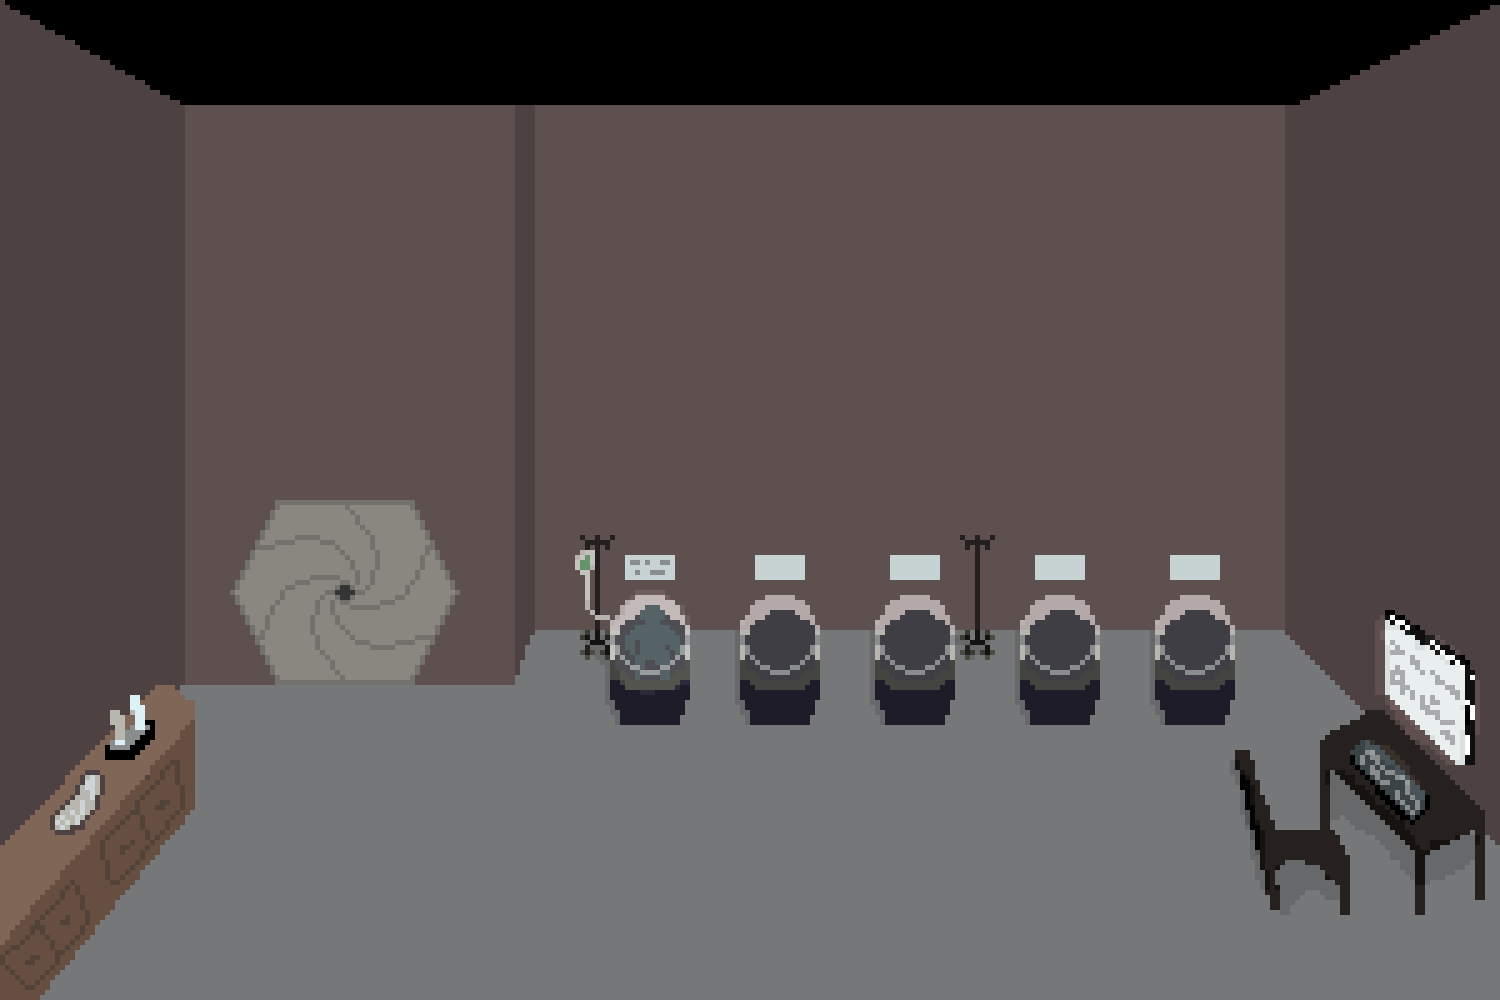
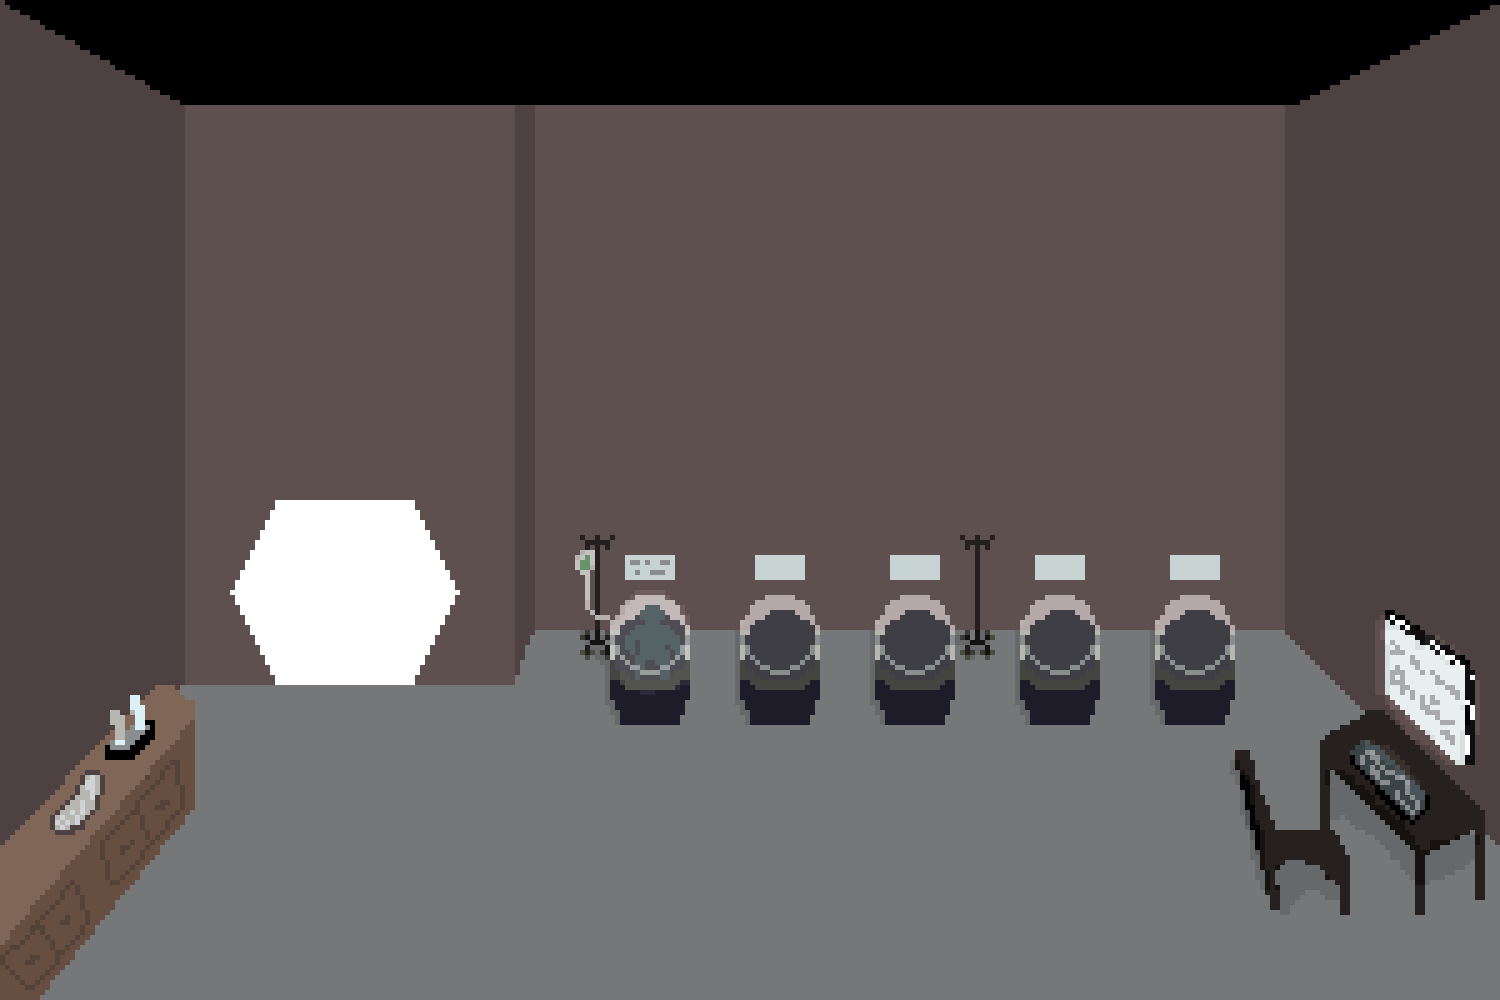
added a bunch of animations and mouse tracker

Changed region(s): [[0.1533, 0.496, 0.3067, 0.682]]

diff --git a/src/components/Space-Ship.jsx b/src/components/Space-Ship.jsx
@@ -1,7 +1,6 @@
 import { Routes, Route } from 'react-router-dom'
 import { Link, useNavigate } from 'react-router-dom'
-import { useEffect, useState } from 'react'
-import '../styles/spaceShip.css'
+import { useEffect, useState, useRef } from 'react'
 import Background from '../assets/GUI/stars.gif'
 import Inventory from './InventoryPopup'
 import VisibilityToggle from '../hooks/ToggleVisibility'
@@ -15,6 +14,7 @@ import ImTheMap from '../assets/SFX/Im-the-map.mp3'
 import ImTheMAAAAp from '../assets/SFX/Im-the-MAAAAp.mp3'
 import TransitionSfx from '../assets/SFX/door-sfx.mp3'
 import MedBayMap from '../assets/roomMaps/medbayMap.png'
+import '../styles/spaceShip.css'
 
 
 function SpaceShip(){
@@ -22,19 +22,19 @@ function SpaceShip(){
     const [mapImage, setMapImage] = useState(MapHappy)
     const [currentScene, setCurrentScene] = useState('medbay')
     const [mapSound, setMapSound] = useState(ImTheMAAAAp)
+    const [coords, setCoords] = useState({ x: 0, y: 0 })
+    
+    const interactBoxRef = useRef(null)
 
     const mappy = new Audio(mapSound)
-
+    
     let mapHover = false
-
     const TransitionSound = new Audio(TransitionSfx)
-
-    useEffect(() => {
+    
+    useEffect(() => {   
         TransitionSound.play()
     }, [currentScene])
-
-  
-
+    
     function mapClick(){
         mappy.play()
         setIsOpen(!isOpen)
@@ -53,14 +53,33 @@ function SpaceShip(){
         }
     }
 
+    const trackMouseMove = (event) => {
+        if (!interactBoxRef.current) return
+
+        const rect = interactBoxRef.current.getBoundingClientRect()
+
+        setCoords({
+            x: event.clientX - rect.left,
+            y: event.clientY - rect.top,
+        })
+    }
+
     return(
         <>
             <Link to='/stars'>
                 <img src={Background} className="bgImg"/>
             </Link>
-            <div className='interactBox'>
+            <div 
+            className='interactBox'
+            ref={interactBoxRef}
+            onPointerMove={trackMouseMove}
+            style={{
+                cursor: 'crosshair'
+            }}
+            >
                 <SelectScene  scene={currentScene} setScene={setCurrentScene}/>
                 <img src={MedBayMap} className='medBayImg'/>
+
                 <Modal open={isOpen}>
                     <Map />
                 </Modal>
@@ -70,7 +89,6 @@ function SpaceShip(){
                 
                 <img onClick={mapClick} onMouseOver={() => decideMapImage(true, isOpen)} onMouseLeave={() => decideMapImage(false, isOpen)} src={mapImage} className='mapButton'/>
             </div>
-
         </>
     )
 }
